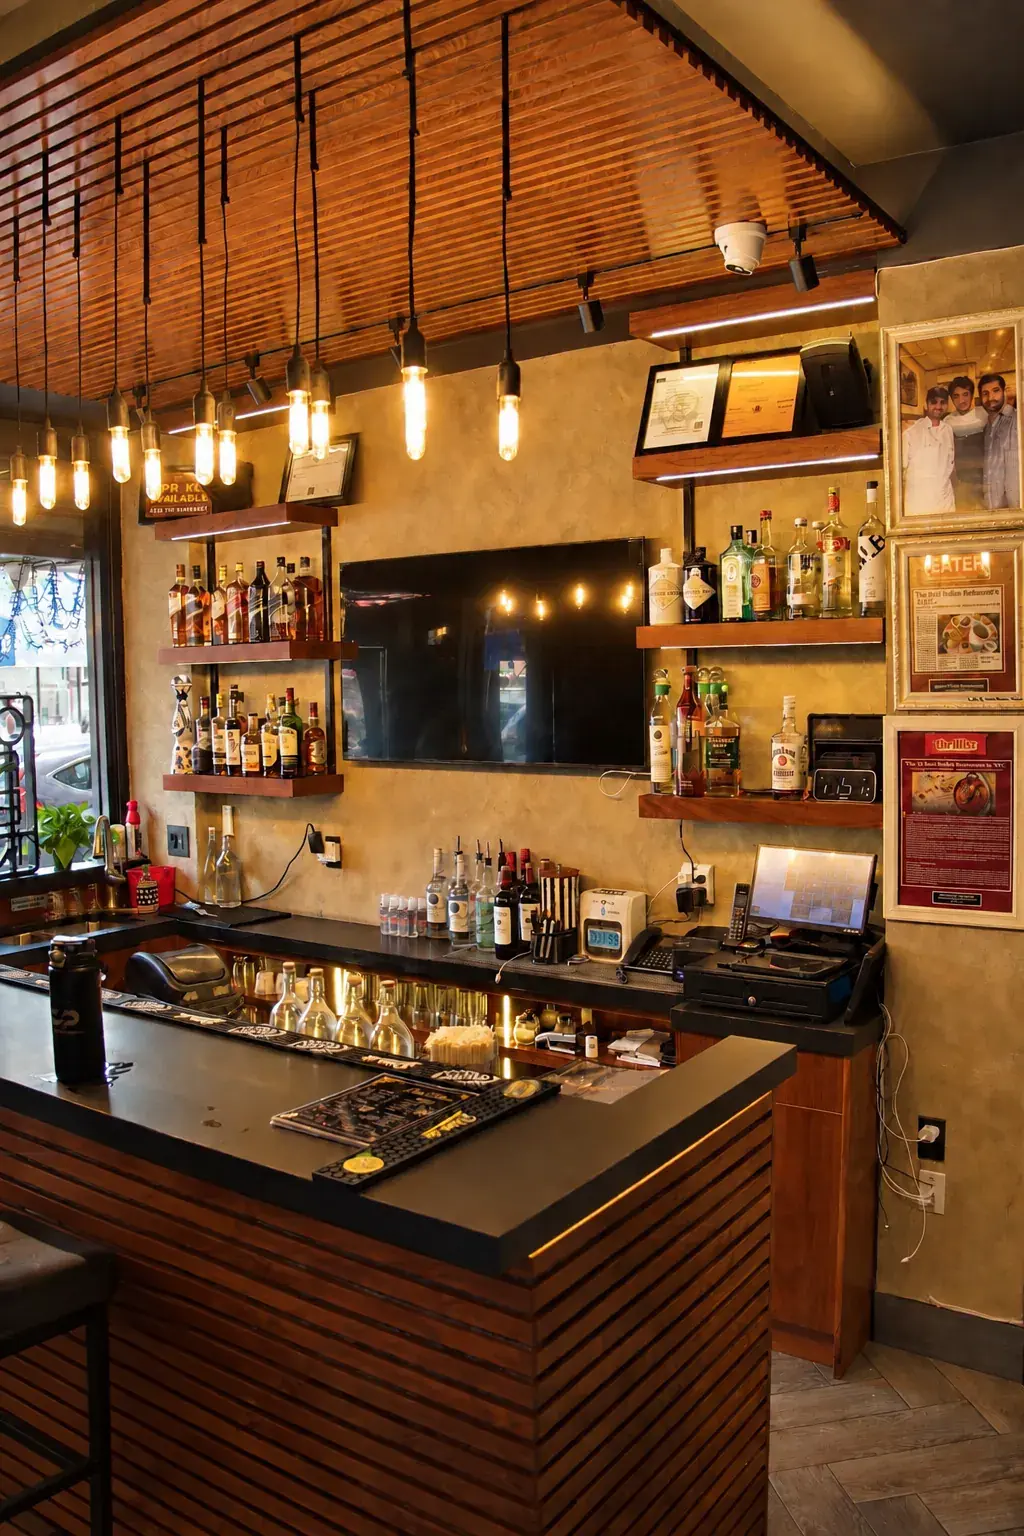
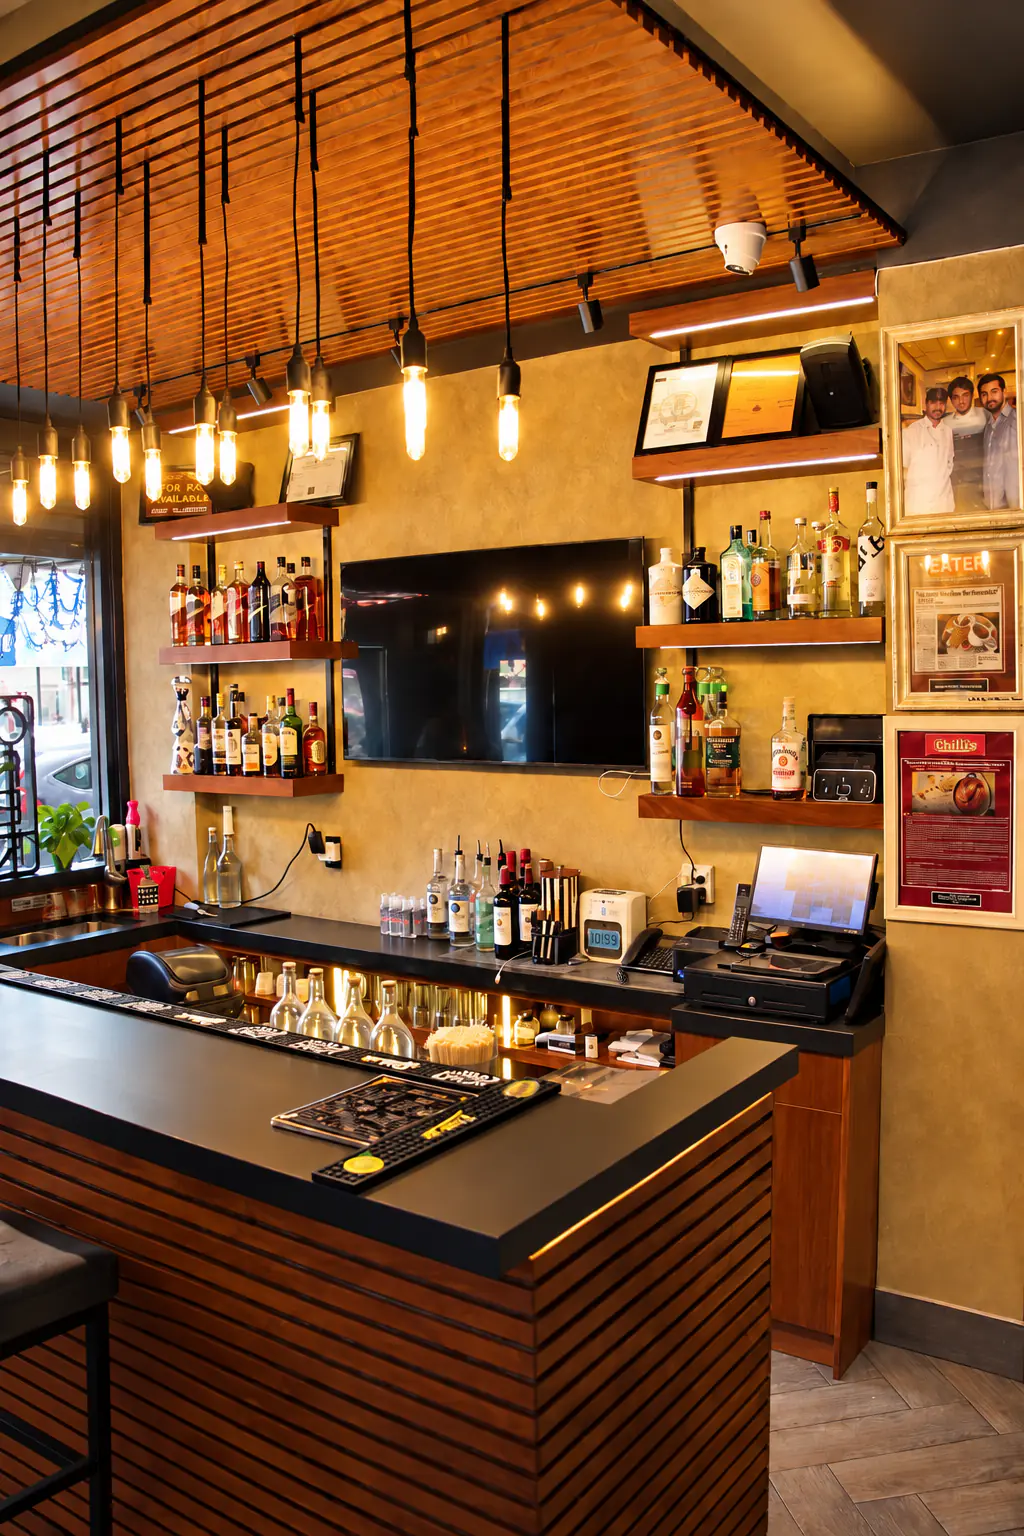
Replace the bar, chole bhatura, dining room and lamb curry photos
New retouched originals converted to the site's optimised format at the same
names and proportions, so every existing frame still fits: the chole bhatura
loses the hand and spoon, the lamb curry loses a stray speck, and the bar and
dining room are retouched.

The chole bhatura's new composition spreads the bowl and both breads across the
whole width, so its crop point moves from 45% to 35%. In the portrait tiles
(gallery 4:5, menu tiles) that keeps the whole copper bowl and the main bread
in view instead of cutting the bowl at the left edge.

diff --git a/app/site.css b/app/site.css
@@ -347,7 +347,7 @@
   img[src*="experience-dining-room"] { object-position: 56% 50%; }
   img[src*="dal-makhni-naan"] { object-position: 74% 45%; }
   img[src*="lamb-karahi"] { object-position: 36% 50%; }
-  img[src*="chole-bhatura"] { object-position: 45% 55%; }
+  img[src*="chole-bhatura"] { object-position: 35% 55%; }
   img[src*="goat-dum-biryani"] { object-position: 55% 50%; }
   img[src*="dinner-spread"] { object-position: 50% 40%; }
   @media (max-width: 767px) {
